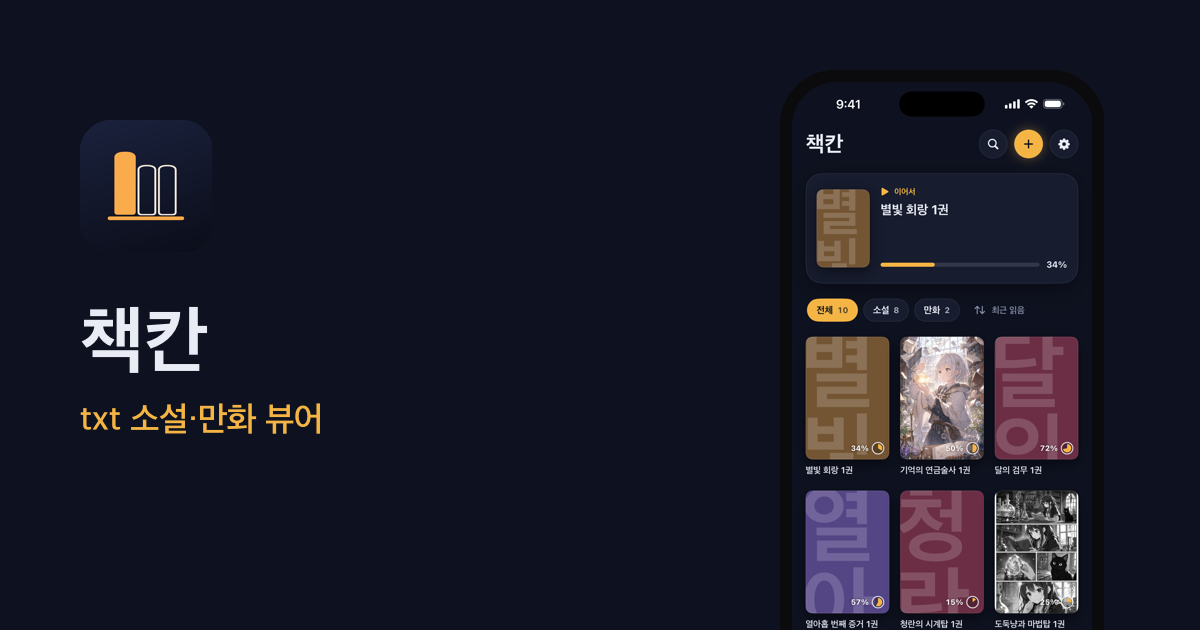
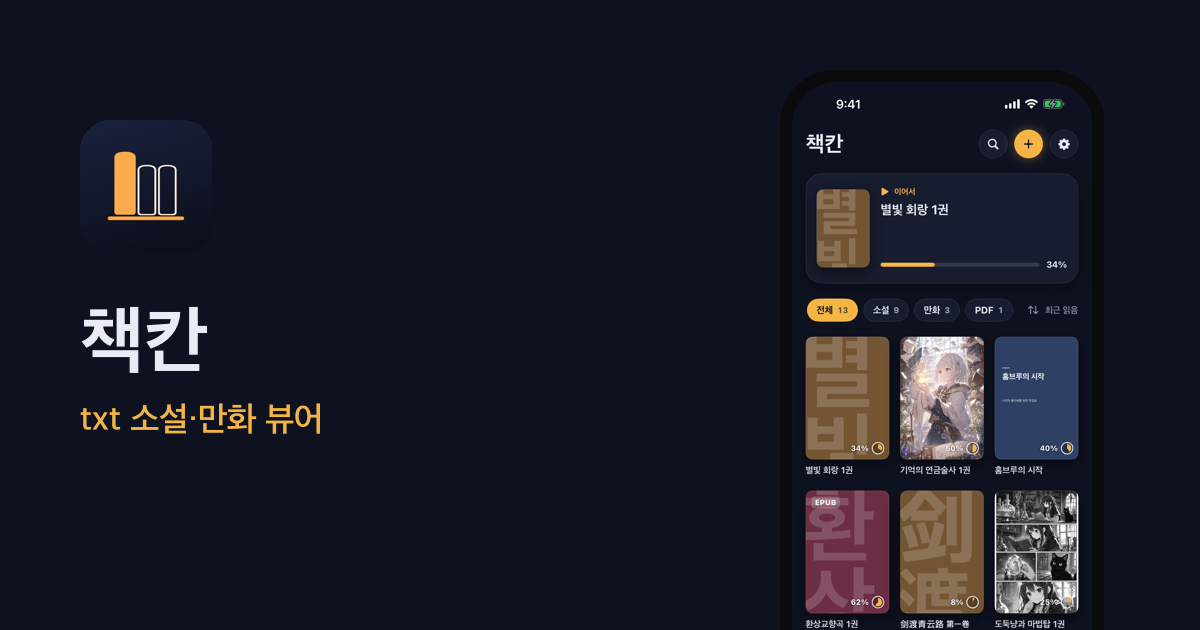
책칸 소개 페이지 1.1: 스토어 스크린샷과 같은 문구·화면, 이어 읽기·번역·형광펜·PDF·음량 버튼 구간, 자주 묻는 질문 4개
- 문구: 사장님 확정본(끊김 없는 독서, 읽던 자리 그대로 / 기능 구간 8개, 설명은 해요체 통일)
- 화면: app/Chaekkan/content/store/v2/raw/iphone 실제 앱 캡처
- 구간 움직임: 번역 전환, 웹툰 스크롤, 형광펜·목차 카드 올라옴, 음량 버튼 줄 강조

Claude-Session: https://claude.ai/code/session_018Qi31Ubd67GE5j59VxB8Cp

diff --git a/docs/chaekkan/index.html b/docs/chaekkan/index.html
@@ -5,7 +5,7 @@
 <meta name="naver-site-verification" content="a9b602e1286b3ce70b0e9754a7afbd7effcd1ab8">
 <meta property="og:type" content="website"><meta property="og:locale" content="ko_KR"><meta property="og:site_name" content="Importants Studio"><meta property="og:title" content="웹소설·전자책 txt 뷰어, TTS 낭독·만화 뷰어 - 책칸"><meta property="og:description" content="웹소설과 전자책 그리고 txt 파일을 깨짐 없이 읽으며 무협소설을 즐겨요. TTS 기능으로 오디오북처럼 듣거나 만화책을 감상할 수 있어요."><meta property="og:url" content="https://apps.importants-studio.com/chaekkan/">
 <meta property="og:image" content="https://apps.importants-studio.com/chaekkan/og.png"><meta property="og:image:width" content="1200"><meta property="og:image:height" content="630"><meta name="twitter:card" content="summary_large_image"><meta name="twitter:title" content="웹소설·전자책 txt 뷰어, TTS 낭독·만화 뷰어 - 책칸"><meta name="twitter:description" content="웹소설과 전자책 그리고 txt 파일을 깨짐 없이 읽으며 무협소설을 즐겨요. TTS 기능으로 오디오북처럼 듣거나 만화책을 감상할 수 있어요."><meta name="twitter:image" content="https://apps.importants-studio.com/chaekkan/og.png">
-<meta name="keywords" content="웹소설, 전자책, TTS, 무협소설, 이북, 오디오북, 만화책, txt 파일, 텍스트 뷰어, 만화 뷰어, 전자책 뷰어, txt 뷰어, 한글 깨짐"><script type="application/ld+json">{"@context": "https://schema.org", "@type": "SoftwareApplication", "name": "책칸 - txt 소설·만화 뷰어", "alternateName": "책칸", "operatingSystem": "iOS", "applicationCategory": "BookApplication", "description": "웹소설과 전자책 그리고 txt 파일을 깨짐 없이 읽으며 무협소설을 즐겨요. TTS 기능으로 오디오북처럼 듣거나 만화책을 감상할 수 있어요.", "keywords": "웹소설, 전자책, TTS, 무협소설, 이북, 오디오북, 만화책, txt 파일, 텍스트 뷰어, 만화 뷰어, 전자책 뷰어, txt 뷰어, 한글 깨짐", "image": "https://apps.importants-studio.com/chaekkan/icon.png", "screenshot": ["https://apps.importants-studio.com/chaekkan/library.webp", "https://apps.importants-studio.com/chaekkan/reader.webp"], "url": "https://apps.importants-studio.com/chaekkan/", "installUrl": "https://apps.apple.com/kr/app/%EC%B1%85%EC%B9%B8-txt-%EC%86%8C%EC%84%A4-%EB%A7%8C%ED%99%94-%EB%B7%B0%EC%96%B4/id6800615398", "publisher": {"@type": "Organization", "name": "Importants Studio", "url": "https://apps.importants-studio.com"}, "offers": {"@type": "Offer", "price": "0", "priceCurrency": "KRW"}}</script><script type="application/ld+json">{"@context": "https://schema.org", "@type": "BreadcrumbList", "itemListElement": [{"@type": "ListItem", "position": 1, "name": "Importants Studio", "item": "https://apps.importants-studio.com/"}, {"@type": "ListItem", "position": 2, "name": "책칸", "item": "https://apps.importants-studio.com/chaekkan/"}]}</script>
+<meta name="keywords" content="웹소설, 전자책, TTS, 무협소설, 이북, 오디오북, 만화책, txt 파일, 텍스트 뷰어, 만화 뷰어, 전자책 뷰어, txt 뷰어, 한글 깨짐"><script type="application/ld+json">{"@context": "https://schema.org", "@type": "SoftwareApplication", "name": "책칸 - txt 소설·만화 뷰어", "alternateName": "책칸", "operatingSystem": "iOS", "applicationCategory": "BookApplication", "description": "웹소설과 전자책 그리고 txt 파일을 깨짐 없이 읽으며 무협소설을 즐겨요. TTS 기능으로 오디오북처럼 듣거나 만화책을 감상할 수 있어요.", "keywords": "웹소설, 전자책, TTS, 무협소설, 이북, 오디오북, 만화책, txt 파일, 텍스트 뷰어, 만화 뷰어, 전자책 뷰어, txt 뷰어, 한글 깨짐", "image": "https://apps.importants-studio.com/chaekkan/icon.png", "screenshot": ["https://apps.importants-studio.com/chaekkan/s1_library.webp", "https://apps.importants-studio.com/chaekkan/s2_reader.webp"], "url": "https://apps.importants-studio.com/chaekkan/", "installUrl": "https://apps.apple.com/kr/app/%EC%B1%85%EC%B9%B8-txt-%EC%86%8C%EC%84%A4-%EB%A7%8C%ED%99%94-%EB%B7%B0%EC%96%B4/id6800615398", "publisher": {"@type": "Organization", "name": "Importants Studio", "url": "https://apps.importants-studio.com"}, "offers": {"@type": "Offer", "price": "0", "priceCurrency": "KRW"}}</script><script type="application/ld+json">{"@context": "https://schema.org", "@type": "BreadcrumbList", "itemListElement": [{"@type": "ListItem", "position": 1, "name": "Importants Studio", "item": "https://apps.importants-studio.com/"}, {"@type": "ListItem", "position": 2, "name": "책칸", "item": "https://apps.importants-studio.com/chaekkan/"}]}</script>
 <meta name="apple-itunes-app" content="app-id=6800615398">
 <script async src="https://www.googletagmanager.com/gtag/js?id=G-YR3RMTS5JD"></script><script>window.dataLayer=window.dataLayer||[];function gtag(){dataLayer.push(arguments)}gtag("js",new Date());gtag("config","G-YR3RMTS5JD");</script><style>*{box-sizing:border-box}html{scroll-behavior:smooth}body{margin:0;-webkit-font-smoothing:antialiased;word-break:keep-all;overflow-x:hidden}
 a{color:inherit;text-decoration:none}img{display:block;max-width:100%}.in{max-width:1200px;margin:0 auto;padding:0 clamp(20px,5vw,56px)}
@@ -40,22 +40,29 @@ body{font-family:"Pretendard Variable",Pretendard,sans-serif;background:#0E1220;
 .bar .wv{display:flex;align-items:center;gap:3px;height:24px}.bar .wv i{width:3px;background:#8C7BFF;border-radius:2px;animation:wv 1s ease-in-out infinite}.bar .wv i:nth-child(2n){animation-delay:.2s}.bar .wv i:nth-child(3n){animation-delay:.4s}@keyframes wv{0%,100%{height:6px}50%{height:22px}}.bar small{color:#8A93AD;font-family:"Pretendard Variable",sans-serif;font-size:13px}
 .feat{padding:clamp(40px,6vw,80px) 0}.feat .in{display:grid;grid-template-columns:1fr 1fr;gap:clamp(40px,6vw,80px);align-items:center}.feat.rev .tx{order:2}.feat .vis{display:flex;justify-content:center}.feat .phone{--w:clamp(220px,min(22vw,38vh),280px);box-shadow:0 40px 80px rgba(0,0,0,.5)}
 .feat h3{font-family:"Nanum Myeongjo",serif;font-size:clamp(28px,3.4vw,42px);line-height:1.3;margin:14px 0 16px;font-weight:800}.feat p{font-size:18px;color:#8A93AD;line-height:1.7;margin:0;max-width:430px}
-.why{padding:clamp(72px,9vw,110px) 0;border-top:1px solid #1B2135}.why .grid{display:grid;grid-template-columns:repeat(3,1fr);gap:clamp(20px,3vw,40px)}.why h4{font-size:20px;font-weight:800;margin:0 0 10px;color:#F5B544}.why p{margin:0;color:#8A93AD;line-height:1.7}
+.why{padding:clamp(72px,9vw,110px) 0;border-top:1px solid #1B2135}.why .grid{display:grid;grid-template-columns:repeat(4,1fr);gap:clamp(20px,3vw,40px)}.why h4{font-size:20px;font-weight:800;margin:0 0 10px;color:#F5B544}.why p{margin:0;color:#8A93AD;line-height:1.7}
 .end{text-align:center;padding:clamp(80px,10vw,120px) 24px;background:#171C2E}.end img{width:92px;height:92px;border-radius:24px;margin:0 auto 24px;box-shadow:0 0 60px rgba(245,181,68,.25)}.end h2{font-family:"Nanum Myeongjo",serif;font-size:clamp(28px,4vw,46px);font-weight:800;margin:0 0 30px}.end small{display:block;margin-top:20px;color:#8A93AD}.end small a{text-decoration:underline}
 .kw span{border-color:#8A93AD}.wt .scr{position:absolute;inset:calc(var(--w)*.034);border-radius:calc(var(--w)*.13);overflow:hidden;background:#000}.wt .scr img{width:100%;height:auto;object-fit:initial;border-radius:0;will-change:transform}
+.feat .vis{position:relative;--w:clamp(220px,min(22vw,38vh),280px)}.pro{display:inline-block;margin-left:10px;padding:3px 11px;border-radius:99px;background:#F5B544;color:#0E1220;font-size:13px;font-weight:800;vertical-align:1px}
+.phone.tr img.b{position:absolute;left:calc(var(--w)*.034);top:calc(var(--w)*.034);width:calc(100% - var(--w)*.068);height:calc(100% - var(--w)*.068);animation:trx 7s ease-in-out infinite}@keyframes trx{0%,22%{opacity:0}34%,88%{opacity:1}100%{opacity:0}}
+.cardup{position:absolute;left:50%;width:calc(var(--w)*1.16);border-radius:calc(var(--w)*.05);border:1px solid rgba(255,255,255,.18);box-shadow:0 26px 60px rgba(0,0,0,.65);transform:translate(-50%,0);animation:cup 6.5s cubic-bezier(.2,.8,.2,1) infinite}@keyframes cup{0%{opacity:0;transform:translate(-50%,46px)}14%,82%{opacity:1;transform:translate(-50%,0)}94%,100%{opacity:0;transform:translate(-50%,46px)}}
+.cardup.pulse{animation:cpl 6s ease-in-out infinite}@keyframes cpl{0%,100%{transform:translate(-50%,0) scale(1)}12%{transform:translate(-50%,0) scale(1.06)}24%{transform:translate(-50%,0) scale(1)}}
+.faq{padding:clamp(56px,7vw,90px) 0;border-top:1px solid #1B2135}.faq .in{max-width:820px}.faq h2{font-family:"Nanum Myeongjo",serif;font-size:clamp(24px,3vw,34px);font-weight:800;margin:0 0 22px}.faq details{border-bottom:1px solid #232A42;padding:18px 0}.faq summary{cursor:pointer;font-weight:700;font-size:18px}.faq p{margin:12px 0 0;color:#8A93AD;line-height:1.75}
 @media(max-width:900px){.hero .in,.page .in,.tts .in,.feat .in,.why .grid{grid-template-columns:1fr}.feat.rev .tx{order:0}.stage{height:420px;gap:12px}.stage .phone{--w:min(42vw,170px)}.stage .phone:last-child{margin-top:50px}.hstats{display:grid;grid-template-columns:repeat(3,minmax(0,1fr))}.paper{height:400px}}</style></head><body>
 <nav class=""><div class="in"><a class="brand" href="https://importants-studio.com/"><img src="/mark.png" alt="" width="24" height="24"><b>Importants Studio</b></a><div class="links"><a href="/lucky-bite/">뽑기 한입</a><a href="/floorlog/">FloorLog</a><a href="/reckoner/">Reckoner</a><a href="/quiz-bite/">퀴즈 한입</a><a href="/maejeum/">맺음</a><a href="/chaekkan/">책칸</a><a href="/officekit/">오피스킷</a><a href="/fairlypaid/">일한만큼 받자</a></div></div></nav>
-<header class="hero"><i class="star" style="left:8%;top:12%;animation-delay:-0s"></i><i class="star" style="left:22%;top:30%;animation-delay:-1.2s"></i><i class="star" style="left:46%;top:8%;animation-delay:-2.4s"></i><i class="star" style="left:64%;top:22%;animation-delay:-0.6s"></i><i class="star" style="left:84%;top:10%;animation-delay:-3.1s"></i><i class="star" style="left:92%;top:40%;animation-delay:-1.8s"></i><i class="star" style="left:30%;top:70%;animation-delay:-2.7s"></i><i class="star" style="left:74%;top:66%;animation-delay:-0.3s"></i><i class="star" style="left:56%;top:86%;animation-delay:-3.6s"></i><i class="star" style="left:12%;top:54%;animation-delay:-1.1s"></i><div class="in"><div class="r"><span class="chip"><img src="icon.png" alt="">책칸</span><h1>끊김 없는 독서<br>읽던 자리 그대로</h1><p>텍스트와 만화를 가장 편안한 환경에서 읽어요</p><a class="btn main storebtn" data-id="6800615398" data-slug="chaekkan" href="https://apps.apple.com/kr/app/%EC%B1%85%EC%B9%B8-txt-%EC%86%8C%EC%84%A4-%EB%A7%8C%ED%99%94-%EB%B7%B0%EC%96%B4/id6800615398">App Store에서 받기</a>
-<div class="hstats"><div><b>글자 잘림 없이</b><span>페이지와 글자 크기 변화 대응</span></div><div><b>읽던 곳 기억</b><span>아이폰과 아이패드 사이 이동</span></div><div><b>txt·만화·PDF</b><span>여러 형식의 파일을 한 곳에서</span></div></div></div>
-<div class="stage r d1"><i class="glow"></i><div class="phone " style=""><img src="library.webp" alt="책장" loading="lazy"></div><div class="phone " style=""><img src="reader.webp" alt="텍스트 리더" loading="lazy"></div></div></div></header>
-<section class="page"><div class="in"><div class="r"><span class="k">가독성 높은 화면</span><h2>글자 겹침 없이<br>깔끔한 화면</h2><p class="d">글자 크기와 줄 간격을 바꿔도 글자가 깨지지 않아요. 인코딩을 자동으로 판별해 한글도 선명해요</p>
+<header class="hero"><i class="star" style="left:8%;top:12%;animation-delay:-0s"></i><i class="star" style="left:22%;top:30%;animation-delay:-1.2s"></i><i class="star" style="left:46%;top:8%;animation-delay:-2.4s"></i><i class="star" style="left:64%;top:22%;animation-delay:-0.6s"></i><i class="star" style="left:84%;top:10%;animation-delay:-3.1s"></i><i class="star" style="left:92%;top:40%;animation-delay:-1.8s"></i><i class="star" style="left:30%;top:70%;animation-delay:-2.7s"></i><i class="star" style="left:74%;top:66%;animation-delay:-0.3s"></i><i class="star" style="left:56%;top:86%;animation-delay:-3.6s"></i><i class="star" style="left:12%;top:54%;animation-delay:-1.1s"></i><div class="in"><div class="r"><span class="chip"><img src="icon.png" alt="">책칸</span><h1>끊김 없는 독서,<br>읽던 자리 그대로</h1><p>TXT, EPUB, 만화, PDF. 텍스트를 가장 편안하게 읽는 나만의 서재</p><a class="btn main storebtn" data-id="6800615398" data-slug="chaekkan" href="https://apps.apple.com/kr/app/%EC%B1%85%EC%B9%B8-txt-%EC%86%8C%EC%84%A4-%EB%A7%8C%ED%99%94-%EB%B7%B0%EC%96%B4/id6800615398">App Store에서 받기</a>
+<div class="hstats"><div><b>한글 깨짐·글자 잘림 없이</b><span>대용량 파일 1초 로딩</span></div><div><b>마지막 위치 기억</b><span>낭독(TTS) · 외국어 번역 지원</span></div><div><b>만화 이어 보기</b><span>형광펜 · 음량 버튼 페이지 넘김</span></div></div></div>
+<div class="stage r d1"><i class="glow"></i><div class="phone " style=""><img src="s1_library.webp" alt="책장" loading="lazy"></div><div class="phone " style=""><img src="s2_reader.webp" alt="텍스트 리더" loading="lazy"></div></div></div></header>
+<section class="page"><div class="in"><div class="r"><span class="k">한글 깨짐, 글자 잘림 없이</span><h2>내 눈에 꼭 맞는<br>편안한 화면</h2><p class="d">글꼴, 크기, 줄 간격은 물론 야간 모드까지 취향껏 설정해요. 빈 줄은 접어주고 수십 메가 대용량 텍스트도 1초 안에 열려요.</p>
 <div class="ctl">가<input type="range" id="fs" min="15" max="24" value="18" aria-label="글자 크기"><b id="fv">18</b>가</div></div>
 <div class="paper r d1" id="pp"><div class="txt" id="tx"><p>낯익은 목소리에 은하는 뒤돌아봤다. 학생회장인 현우였다.</p><p>현우는 회랑 반대편에 서 있었다. 그의 손에는 책 한 권이 들려 있었다.</p><p>“그냥, 생각 좀 하려고.”</p><p>현우는 다가오며 창문 곁에 섰다. 두 사람 사이로 조용한 밤공기가 스며들었다.</p><p>이 학교에서 가장 조용한 곳, 아무도 찾지 않는 별빛 회랑.</p><p>이곳에서만큼은 고민도, 두려움도 모두 사라지는 것 같았다.</p></div><div class="ft"><span>별빛 회랑 1권</span><span id="pg">34%</span></div></div></div></section>
+<section class="feat rev"><div class="in"><div class="tx r"><span class="k">앱을 껐다 켜도</span><h3>마지막에 읽던<br>자리 그대로</h3><p>책갈피가 없어도 찰떡같이 기억해요.</p></div><div class="vis r d1"><div class="phone " style=""><img src="s1_library.webp" alt="책장의 이어서 카드" loading="lazy"></div></div></div></section><section class="feat "><div class="in"><div class="tx r"><span class="k">막히는 외국어 원서 읽기</span><span class="pro">Pro</span><h3>버튼 한 번에<br>한국어로 번역</h3><p>외국어 소설을 한국어로 바로 번역해 줘요. 원문과 번역을 함께 보며 읽기 좋아요.</p></div><div class="vis r d1"><div class="phone tr"><img src="s3_original.webp" alt="중국어 원문" loading="lazy"><img class="b" src="s3_translate.webp" alt="한국어 번역과 원문" loading="lazy"></div></div></div></section>
 <section class="tts"><div class="in"><div class="read r" id="rd"><span>낯익은 목소리에 은하는 뒤돌아봤다. 학생회장인 현우였다.</span> <span>현우는 회랑 반대편에 서 있었다. 그의 손에는 책 한 권이 들려 있었다.</span> <span>“그냥, 생각 좀 하려고.”</span> <span>현우는 다가오며 창문 곁에 섰다. 두 사람 사이로 조용한 밤공기가 스며들었다.</span> <span>이 학교에서 가장 조용한 곳, 아무도 찾지 않는 별빛 회랑.</span> <span>이곳에서만큼은 고민도, 두려움도 모두 사라지는 것 같았다.</span> <div class="bar"><span class="pl"><i></i><i></i></span><span class="wv"><i></i><i></i><i></i><i></i><i></i><i></i><i></i><i></i><i></i><i></i><i></i><i></i><i></i><i></i></span></div></div>
-<div class="r d1"><span class="k">눈이 쉬는 시간</span><h2>귀로 듣는<br>생생한 이야기</h2><p class="d">기기 음성으로 문장을 읽어줘요. 화면을 꺼도 다른 앱을 쓰는 중에도 낭독이 계속돼요</p></div></div></section>
-<section class="feat"><div class="in"><div class="tx r"><span class="k">어디서든 이어 읽기</span><h3>읽던 곳부터<br>바로 시작해요</h3><p>기기를 바꿔도 읽던 위치를 기억해요. iCloud로 아이폰과 아이패드를 오가며 읽을 수 있어요</p></div><div class="vis r d1"><div class="phone " style=""><img src="library.webp" alt="어디서든 이어 읽기" loading="lazy"></div></div></div></section><section class="feat rev wt"><div class="in"><div class="tx r"><span class="k">만화도 자유롭게</span><h3>웹툰처럼<br>부드러운 스크롤</h3><p>세로 스크롤부터 페이지 넘기기까지 지원해요. 다양한 만화 파일 형식을 지원해요</p></div><div class="vis r d1"><div class="phone"><div class="scr"><img src="webtoon.webp" alt="세로 스크롤 만화" id="wti"></div></div></div></div></section>
-<section class="why"><div class="in grid"><div class="r d0"><h4>깔끔한 문단 정리</h4><p>빈 줄을 접거나 문단을 이어 붙여 읽기 편해요</p></div><div class="r d1"><h4>빠른 파일 열기</h4><p>수십 메가 파일도 첫 페이지까지 1초 안에 열려요</p></div><div class="r d2"><h4>맞춤형 독서 환경</h4><p>글꼴과 종이 질감, 야간 모드로 취향껏 설정해요</p></div></div></section>
-<section class="end r"><img src="icon.png" alt=""><h2>지금 바로 나만의 책장을 만들어봐요</h2><a class="btn main storebtn" data-id="6800615398" data-slug="chaekkan" href="https://apps.apple.com/kr/app/%EC%B1%85%EC%B9%B8-txt-%EC%86%8C%EC%84%A4-%EB%A7%8C%ED%99%94-%EB%B7%B0%EC%96%B4/id6800615398">App Store에서 받기</a><small><a href="https://importants-studio.com/privacy/chaekkan/">개인정보 처리방침</a></small></section><div class="in kw"><span>웹소설</span><span>전자책</span><span>TTS</span><span>무협소설</span><span>이북</span><span>오디오북</span><span>만화책</span><span>txt 파일</span><span>텍스트 뷰어</span><span>만화 뷰어</span><span>전자책 뷰어</span><span>txt 뷰어</span><span>한글 깨짐</span></div>
+<div class="r d1"><span class="k">눈이 피곤하고 쉬고 싶을 땐</span><h2>화면을 끄고<br>소설을 들어요</h2><p class="d">눈을 감고 싶을 땐 기기가 읽어주는 소설을 들으며 잠들어 보세요.</p></div></div></section>
+<section class="feat rev wt"><div class="in"><div class="tx r"><span class="k">웹툰처럼 부드럽게, 흐름이 끊기지 않게</span><h3>다음 화가 바로<br>아래에 이어져요</h3><p>7Z, ZIP 등 다양한 압축 만화를 지원해요. 한 화가 끝나면 밖으로 나갈 필요 없이 다음 화로 쾌적하게 넘어가요.</p></div><div class="vis r d1"><div class="phone"><div class="scr"><img src="webtoon.webp" alt="세로 스크롤 만화" id="wti"></div></div></div></div></section><section class="feat "><div class="in"><div class="tx r"><span class="k">간직하고 싶은 인생 문장</span><h3>길게 눌러 형광펜 칠하고<br>메모를 남겨요</h3><p>인상 깊은 구절에 색을 칠하고 메모를 남겨요.</p></div><div class="vis r d1"><div class="phone " style=""><img src="s6_mark.webp" alt="형광펜 칠한 문단" loading="lazy"></div><img class="cardup" style="top:56%" src="card-mark.webp" alt="형광펜 모아 보기" loading="lazy"></div></div></section><section class="feat rev "><div class="in"><div class="tx r"><span class="k">긴 PDF에서 찾을 때</span><h3>목차와 검색으로<br>바로 찾아가요</h3><p>가로 두 쪽, 야간 모드, 암호 PDF 열기 지원</p></div><div class="vis r d1"><div class="phone " style=""><img src="s7_pdf.webp" alt="PDF 리더" loading="lazy"></div><img class="cardup" style="top:50%" src="card-toc.webp" alt="PDF 목차" loading="lazy"></div></div></section><section class="feat "><div class="in"><div class="tx r"><span class="k">이불 속에서 한 손으로 볼 땐</span><h3>음량 버튼으로<br>편하게 쪽을 넘겨요</h3><p>이불 속에서는 음량 버튼으로 편하게 페이지를 넘길 수 있어요.</p></div><div class="vis r d1"><div class="phone " style=""><img src="s8_settings.webp" alt="설정" loading="lazy"></div><img class="cardup pulse" style="top:35.5%" src="card-vol.webp" alt="음량 버튼으로 쪽 넘기기 켜짐" loading="lazy"></div></div></section>
+<section class="why"><div class="in grid"><div class="r d0"><h4>음량 버튼 페이지 넘기기</h4><p>설정에서 기능을 켜면 음량 버튼으로 편리하게 쪽을 넘겨요.</p></div><div class="r d1"><h4>파일 앱 연동 기능</h4><p>파일 앱의 책칸 폴더에 파일을 넣으면 앱에 바로 나타나요.</p></div><div class="r d2"><h4>안전한 앱 잠금</h4><p>설정에서 잠금을 켜면 생체 인식이나 암호로 앱을 보호해요.</p></div><div class="r d3"><h4>깔끔한 줄바꿈 정리</h4><p>끊어진 문장을 하나의 문단으로 이어 붙여 읽기 좋게 보여줘요.</p></div></div></section>
+<section class="faq"><div class="in"><h2>자주 묻는 질문</h2><details><summary>아이폰에서 EPUB 파일 어떻게 여나요?</summary><p>책칸에 넣기만 하면 목차와 함께 텍스트 중심으로 열려요. 글꼴 설정이나 낭독 기능도 똑같이 쓸 수 있어요.</p></details><details><summary>7Z, ZIP 압축 만화도 볼 수 있나요?</summary><p>네, 책장에 넣고 터치만 해요. 귀찮게 압축을 풀 필요 없이 처음 열 때 한 번 풀어 두고 다음부터 바로 열려요.</p></details><details><summary>외국어 소설 번역은 어떻게 하나요?</summary><p>뷰어 상단의 번역 버튼을 누르면 한국어로 바뀌어요. 원문과 번역을 함께 보며 읽기 좋아요.</p></details><details><summary>암호 걸린 PDF는 어떻게 여나요?</summary><p>파일을 열면 암호 입력창이 나타나요. 올바른 암호를 입력하면 파일이 열려요.</p></details></div></section>
+<section class="end r"><img src="icon.png" alt=""><h2>지금 바로 나만의 책장을 만들어보세요</h2><a class="btn main storebtn" data-id="6800615398" data-slug="chaekkan" href="https://apps.apple.com/kr/app/%EC%B1%85%EC%B9%B8-txt-%EC%86%8C%EC%84%A4-%EB%A7%8C%ED%99%94-%EB%B7%B0%EC%96%B4/id6800615398">App Store에서 받기</a><small><a href="https://importants-studio.com/privacy/chaekkan/">개인정보 처리방침</a></small></section><div class="in kw"><span>웹소설</span><span>전자책</span><span>TTS</span><span>무협소설</span><span>이북</span><span>오디오북</span><span>만화책</span><span>txt 파일</span><span>텍스트 뷰어</span><span>만화 뷰어</span><span>전자책 뷰어</span><span>txt 뷰어</span><span>한글 깨짐</span></div>
 <footer><div class="in"><span>© 2026 <a href="https://importants-studio.com/">Importants Studio</a></span><div class="links"><a href="/">다른 앱 보기</a><a href="https://importants-studio.com/contact/">문의하기</a></div><details class="fam"><summary>패밀리 사이트</summary><ul><li><a href="https://importants-studio.com/">홈페이지</a></li><li><a href="https://apps.importants-studio.com/" aria-current="page">앱 소개</a></li><li><a href="https://importants-studio.com/tools/">웹 도구</a></li><li><a href="https://importants-studio.com/blog/">블로그</a></li><li><a href="https://importants-studio.com/blogs/">정보 아카이브</a></li></ul></details></div></footer>
 <script>document.addEventListener('DOMContentLoaded',()=>{const cu=new IntersectionObserver(es=>es.forEach(x=>{if(!x.isIntersecting)return;cu.unobserve(x.target);const el=x.target,to=+el.dataset.to,t0=performance.now(),f=t=>{const p=Math.min(1,(t-t0)/1300),v=Math.round(to*(1-Math.pow(1-p,3)));el.textContent=v.toLocaleString()+(el.dataset.sf||'');if(p<1)requestAnimationFrame(f)};requestAnimationFrame(f)}),{threshold:.5});if(!matchMedia('(prefers-reduced-motion: reduce)').matches)document.querySelectorAll('.hstats b,.stats b').forEach(b=>{const t=b.textContent.trim(),mm=t.match(/^([0-9][0-9,]*)(.*)$/);if(mm){b.dataset.to=mm[1].replace(/,/g,'');b.dataset.sf=mm[2];b.textContent='0'+mm[2];cu.observe(b)}});const o=new IntersectionObserver(es=>es.forEach(x=>{if(x.isIntersecting){x.target.classList.add('on');o.unobserve(x.target)}}),{threshold:.12});document.querySelectorAll('.r').forEach(n=>o.observe(n));const fs=document.getElementById('fs'),tx=document.getElementById('tx'),pp=document.getElementById('pp'),fv=document.getElementById('fv');
 const ps=[...tx.children];const fit=()=>{ps.forEach(x=>x.style.display='');const H=tx.clientHeight;let n=0;ps.forEach(x=>{if(x.offsetTop+x.offsetHeight>H)x.style.display='none';else n++});document.getElementById('pg').textContent=n+' / '+ps.length+' 문단';};const setF=v=>{tx.style.fontSize=v+'px';fv.textContent=v;fit();pp.classList.remove('flip');void pp.offsetWidth;pp.classList.add('flip')};addEventListener('resize',fit);fs.oninput=()=>setF(fs.value);setF(18);

diff --git a/docs/index.html b/docs/index.html
@@ -35,8 +35,8 @@ body{font-family:"Pretendard Variable",Pretendard,sans-serif;background:#FAFAF8;
 <div class="ph"><div class="phone " style=""><img src="/floorlog/record.webp" alt="FloorLog" loading="lazy"></div><div class="phone " style=""><img src="/floorlog/pattern.webp" alt="FloorLog" loading="lazy"></div></div></a><a class="card c2 k-reckoner r" href="/reckoner/" style="--bg:#F1EEE7;--fg:#141414;--ac:#FF5B14"><div class="tx"><span class="nm"><img src="/reckoner/icon.png" alt="">Reckoner</span><h2>흐름을 끊지 않는<br>정확한 점수 기록</h2><span class="go">자세히 보기 →</span></div>
 <div class="ph"><div class="phone " style=""><img src="/reckoner/picker.webp" alt="Reckoner" loading="lazy"></div><div class="phone " style=""><img src="/reckoner/live.webp" alt="Reckoner" loading="lazy"></div></div></a><a class="card c3 k-quiz-bite r" href="/quiz-bite/" style="--bg:#EAF0FF;--fg:#1B2440;--ac:#4F7CFF"><div class="tx"><span class="nm"><img src="/quiz-bite/icon.png" alt="">퀴즈 한입</span><h2>매일 채워지는 상식<br>한입 크기 퀴즈</h2><span class="go">자세히 보기 →</span></div>
 <div class="ph"><div class="phone " style=""><img src="/quiz-bite/home.webp" alt="퀴즈 한입" loading="lazy"></div><div class="phone " style=""><img src="/quiz-bite/map.webp" alt="퀴즈 한입" loading="lazy"></div></div></a><a class="card c4 k-maejeum r" href="/maejeum/" style="--bg:#EFECE5;--fg:#2B2B2D;--ac:#4A5C52"><div class="tx"><span class="nm"><img src="/maejeum/icon.png" alt="">맺음</span><h2 style="font-family:'Nanum Myeongjo',serif">장례 절차를<br>차근차근 준비해요</h2><span class="go">자세히 보기 →</span></div>
-<div class="ph"><div class="phone " style=""><img src="/maejeum/funeral.webp" alt="맺음" loading="lazy"></div><div class="phone " style=""><img src="/maejeum/obit_app.webp" alt="맺음" loading="lazy"></div></div></a><a class="card c5 k-chaekkan r" href="/chaekkan/" style="--bg:#0E1220;--fg:#E9ECF5;--ac:#F5B544"><div class="tx"><span class="nm"><img src="/chaekkan/icon.png" alt="">책칸</span><h2 style="font-family:'Nanum Myeongjo',serif">끊김 없는 독서<br>읽던 자리 그대로</h2><span class="go">자세히 보기 →</span></div>
-<div class="ph"><div class="phone " style=""><img src="/chaekkan/library.webp" alt="책칸" loading="lazy"></div><div class="phone " style=""><img src="/chaekkan/reader.webp" alt="책칸" loading="lazy"></div></div></a><a class="card c6 k-officekit r" href="/officekit/" style="--bg:#0F1424;--fg:#FFFFFF;--ac:#7EA0FF"><div class="tx"><span class="nm"><img src="/officekit/icon.png" alt="">오피스킷</span><h2>복잡한 서류 작업<br>이제 앱 하나로 끝내요</h2><span class="go">자세히 보기 →</span></div>
+<div class="ph"><div class="phone " style=""><img src="/maejeum/funeral.webp" alt="맺음" loading="lazy"></div><div class="phone " style=""><img src="/maejeum/obit_app.webp" alt="맺음" loading="lazy"></div></div></a><a class="card c5 k-chaekkan r" href="/chaekkan/" style="--bg:#0E1220;--fg:#E9ECF5;--ac:#F5B544"><div class="tx"><span class="nm"><img src="/chaekkan/icon.png" alt="">책칸</span><h2 style="font-family:'Nanum Myeongjo',serif">끊김 없는 독서,<br>읽던 자리 그대로</h2><span class="go">자세히 보기 →</span></div>
+<div class="ph"><div class="phone " style=""><img src="/chaekkan/s1_library.webp" alt="책칸" loading="lazy"></div><div class="phone " style=""><img src="/chaekkan/s2_reader.webp" alt="책칸" loading="lazy"></div></div></a><a class="card c6 k-officekit r" href="/officekit/" style="--bg:#0F1424;--fg:#FFFFFF;--ac:#7EA0FF"><div class="tx"><span class="nm"><img src="/officekit/icon.png" alt="">오피스킷</span><h2>복잡한 서류 작업<br>이제 앱 하나로 끝내요</h2><span class="go">자세히 보기 →</span></div>
 <div class="ph"><div class="phone " style=""><img src="/officekit/library.webp" alt="오피스킷" loading="lazy"></div><div class="phone " style=""><img src="/officekit/home.webp" alt="오피스킷" loading="lazy"></div></div></a><a class="card c7 cw k-fairlypaid r" href="/fairlypaid/" style="--bg:#ECF5CC;--fg:#101114;--ac:#3F5A0A"><div class="tx"><span class="nm"><img src="/fairlypaid/icon.png" alt="">일한만큼 받자</span><h2>일한 만큼<br>당당하게 받아요</h2><span class="go">자세히 보기 →</span></div>
 <div class="ph"><div class="phone " style=""><img src="/fairlypaid/home.webp" alt="일한만큼 받자" loading="lazy"></div><div class="phone " style=""><img src="/fairlypaid/clock.webp" alt="일한만큼 받자" loading="lazy"></div></div></a></div>
 <footer><div class="in"><span>© 2026 <a href="https://importants-studio.com/">Importants Studio</a></span><div class="links"><a href="/">다른 앱 보기</a><a href="https://importants-studio.com/contact/">문의하기</a></div><details class="fam"><summary>패밀리 사이트</summary><ul><li><a href="https://importants-studio.com/">홈페이지</a></li><li><a href="https://apps.importants-studio.com/" aria-current="page">앱 소개</a></li><li><a href="https://importants-studio.com/tools/">웹 도구</a></li><li><a href="https://importants-studio.com/blog/">블로그</a></li><li><a href="https://importants-studio.com/blogs/">정보 아카이브</a></li></ul></details></div></footer>

diff --git a/tools/build.py b/tools/build.py
@@ -451,27 +451,47 @@ body{font-family:"Pretendard Variable",Pretendard,sans-serif;background:#0E1220;
 .bar .wv{display:flex;align-items:center;gap:3px;height:24px}.bar .wv i{width:3px;background:#8C7BFF;border-radius:2px;animation:wv 1s ease-in-out infinite}.bar .wv i:nth-child(2n){animation-delay:.2s}.bar .wv i:nth-child(3n){animation-delay:.4s}@keyframes wv{0%,100%{height:6px}50%{height:22px}}.bar small{color:#8A93AD;font-family:"Pretendard Variable",sans-serif;font-size:13px}
 .feat{padding:clamp(40px,6vw,80px) 0}.feat .in{display:grid;grid-template-columns:1fr 1fr;gap:clamp(40px,6vw,80px);align-items:center}.feat.rev .tx{order:2}.feat .vis{display:flex;justify-content:center}.feat .phone{--w:clamp(220px,min(22vw,38vh),280px);box-shadow:0 40px 80px rgba(0,0,0,.5)}
 .feat h3{font-family:"Nanum Myeongjo",serif;font-size:clamp(28px,3.4vw,42px);line-height:1.3;margin:14px 0 16px;font-weight:800}.feat p{font-size:18px;color:#8A93AD;line-height:1.7;margin:0;max-width:430px}
-.why{padding:clamp(72px,9vw,110px) 0;border-top:1px solid #1B2135}.why .grid{display:grid;grid-template-columns:repeat(3,1fr);gap:clamp(20px,3vw,40px)}.why h4{font-size:20px;font-weight:800;margin:0 0 10px;color:#F5B544}.why p{margin:0;color:#8A93AD;line-height:1.7}
+.why{padding:clamp(72px,9vw,110px) 0;border-top:1px solid #1B2135}.why .grid{display:grid;grid-template-columns:repeat(4,1fr);gap:clamp(20px,3vw,40px)}.why h4{font-size:20px;font-weight:800;margin:0 0 10px;color:#F5B544}.why p{margin:0;color:#8A93AD;line-height:1.7}
 .end{text-align:center;padding:clamp(80px,10vw,120px) 24px;background:#171C2E}.end img{width:92px;height:92px;border-radius:24px;margin:0 auto 24px;box-shadow:0 0 60px rgba(245,181,68,.25)}.end h2{font-family:"Nanum Myeongjo",serif;font-size:clamp(28px,4vw,46px);font-weight:800;margin:0 0 30px}.end small{display:block;margin-top:20px;color:#8A93AD}.end small a{text-decoration:underline}
 .kw span{border-color:#8A93AD}.wt .scr{position:absolute;inset:calc(var(--w)*.034);border-radius:calc(var(--w)*.13);overflow:hidden;background:#000}.wt .scr img{width:100%;height:auto;object-fit:initial;border-radius:0;will-change:transform}
+.feat .vis{position:relative;--w:clamp(220px,min(22vw,38vh),280px)}.pro{display:inline-block;margin-left:10px;padding:3px 11px;border-radius:99px;background:#F5B544;color:#0E1220;font-size:13px;font-weight:800;vertical-align:1px}
+.phone.tr img.b{position:absolute;left:calc(var(--w)*.034);top:calc(var(--w)*.034);width:calc(100% - var(--w)*.068);height:calc(100% - var(--w)*.068);animation:trx 7s ease-in-out infinite}@keyframes trx{0%,22%{opacity:0}34%,88%{opacity:1}100%{opacity:0}}
+.cardup{position:absolute;left:50%;width:calc(var(--w)*1.16);border-radius:calc(var(--w)*.05);border:1px solid rgba(255,255,255,.18);box-shadow:0 26px 60px rgba(0,0,0,.65);transform:translate(-50%,0);animation:cup 6.5s cubic-bezier(.2,.8,.2,1) infinite}@keyframes cup{0%{opacity:0;transform:translate(-50%,46px)}14%,82%{opacity:1;transform:translate(-50%,0)}94%,100%{opacity:0;transform:translate(-50%,46px)}}
+.cardup.pulse{animation:cpl 6s ease-in-out infinite}@keyframes cpl{0%,100%{transform:translate(-50%,0) scale(1)}12%{transform:translate(-50%,0) scale(1.06)}24%{transform:translate(-50%,0) scale(1)}}
+.faq{padding:clamp(56px,7vw,90px) 0;border-top:1px solid #1B2135}.faq .in{max-width:820px}.faq h2{font-family:"Nanum Myeongjo",serif;font-size:clamp(24px,3vw,34px);font-weight:800;margin:0 0 22px}.faq details{border-bottom:1px solid #232A42;padding:18px 0}.faq summary{cursor:pointer;font-weight:700;font-size:18px}.faq p{margin:12px 0 0;color:#8A93AD;line-height:1.75}
 @media(max-width:900px){.hero .in,.page .in,.tts .in,.feat .in,.why .grid{grid-template-columns:1fr}.feat.rev .tx{order:0}.stage{height:420px;gap:12px}.stage .phone{--w:min(42vw,170px)}.stage .phone:last-child{margin-top:50px}.hstats{display:grid;grid-template-columns:repeat(3,minmax(0,1fr))}.paper{height:400px}}"""
 stars = "".join(f'<i class="star" style="left:{x}%;top:{y}%;animation-delay:-{d}s"></i>' for x, y, d in [(8,12,0),(22,30,1.2),(46,8,2.4),(64,22,.6),(84,10,3.1),(92,40,1.8),(30,70,2.7),(74,66,.3),(56,86,3.6),(12,54,1.1)])
 sents = "".join(f"<span>{e(t)}</span> " for t in SAMPLE)
 paras = "".join(f"<p>{e(t)}</p>" for t in SAMPLE)
-feats = "".join(f"""<section class="feat{' rev' if i % 2 else ''}"><div class="in"><div class="tx r"><span class="k">{e(sc[k]['kicker'])}</span><h3>{br(sc[k]['title'])}</h3><p>{e(sc[k]['body'])}</p></div><div class="vis r d1">{phone(S[k], sc[k]['kicker'])}</div></div></section>""" for i, k in enumerate(["library"]))
-cm = sc["comic"]
-feats += f"""<section class="feat rev wt"><div class="in"><div class="tx r"><span class="k">{e(cm['kicker'])}</span><h3>{br(cm['title'])}</h3><p>{e(cm['body'])}</p></div><div class="vis r d1"><div class="phone"><div class="scr"><img src="{WT}" alt="세로 스크롤 만화" id="wti"></div></div></div></div></section>"""
-rd, ts = sc["reader"], sc["tts"]
+# 1.1: 스토어 스크린샷(app/Chaekkan/content/store/v2)과 같은 문장·같은 화면. 구간마다 움직임 하나(번역 전환·만화 스크롤·카드 올라옴)
+def ck_crop(name, box, dst, w=900):
+    im = Image.open(os.path.join(a["raw_dir"], name + ".png")).convert("RGB").crop(box); im = im.resize((w, int(im.height * w / im.width)))
+    im.save(f"{OUT}/chaekkan/{dst}.webp", "WEBP", quality=86); return f"{dst}.webp"
+CK_MARK = ck_crop("s6_mark_tab", (40, 1380, 1280, 1990), "card-mark"); CK_TOC = ck_crop("s7_pdf_toc", (40, 1385, 1280, 1985), "card-toc"); CK_VOL = ck_crop("s8_settings", (56, 1040, 1264, 1232), "card-vol")
+def ck_tx(x): return f"""<div class="tx r"><span class="k">{e(x['kicker'])}</span>{'<span class="pro">Pro</span>' if x.get('pro') else ''}<h3>{br(x['title'])}</h3>{'<p>' + e(x['body']) + '</p>' if x.get('body') else ''}</div>"""
+def ck_feat(k, vis, rev, cls=""): return f"""<section class="feat{' rev' if rev else ''} {cls}"><div class="in">{ck_tx(SCN[k])}<div class="vis r d1">{vis}</div></div></section>"""
+SCN = {x["kicker"]: x for x in m["scenes"]}; SCN.update(sc)          # 책장 화면은 첫 화면과 이어 읽기 구간에서 같이 써서 구간은 따로 찾음
+RES = m["scenes"][1]
+feats_a = f"""<section class="feat rev"><div class="in">{ck_tx(RES)}<div class="vis r d1">{phone(S["s1_library"], "책장의 이어서 카드")}</div></div></section>"""
+feats_a += ck_feat("s3_translate", f"""<div class="phone tr"><img src="{S['s3_original']}" alt="중국어 원문" loading="lazy"><img class="b" src="{S['s3_translate']}" alt="한국어 번역과 원문" loading="lazy"></div>""", False)
+feats = ck_feat("s5_webtoon", f"""<div class="phone"><div class="scr"><img src="{WT}" alt="세로 스크롤 만화" id="wti"></div></div>""", True, "wt")
+feats += ck_feat("s6_mark", phone(S["s6_mark"], "형광펜 칠한 문단") + f'<img class="cardup" style="top:56%" src="{CK_MARK}" alt="형광펜 모아 보기" loading="lazy">', False)
+feats += ck_feat("s7_pdf", phone(S["s7_pdf"], "PDF 리더") + f'<img class="cardup" style="top:50%" src="{CK_TOC}" alt="PDF 목차" loading="lazy">', True)
+feats += ck_feat("s8_settings", phone(S["s8_settings"], "설정") + f'<img class="cardup pulse" style="top:35.5%" src="{CK_VOL}" alt="음량 버튼으로 쪽 넘기기 켜짐" loading="lazy">', False)
+faq = "".join(f"<details><summary>{e(q['q'])}</summary><p>{e(q['a'])}</p></details>" for q in m["faq"])
+rd, ts = sc["s2_reader"], sc["s4_tts"]
 body = f"""<header class="hero">{stars}<div class="in"><div class="r"><span class="chip"><img src="icon.png" alt="">{e(a['ko_name'])}</span><h1>{br(m['hero_title'])}</h1><p>{e(m['hero_sub'])}</p>{store_btn(a)}
 <div class="hstats">{''.join(f'<div><b>{e(n)}</b><span>{e(l)}</span></div>' for n,l in m['stats'])}</div></div>
-<div class="stage r d1"><i class="glow"></i>{phone(S['library'], '책장')}{phone(S['reader'], '텍스트 리더')}</div></div></header>
+<div class="stage r d1"><i class="glow"></i>{phone(S['s1_library'], '책장')}{phone(S['s2_reader'], '텍스트 리더')}</div></div></header>
 <section class="page"><div class="in"><div class="r"><span class="k">{e(rd['kicker'])}</span><h2>{br(rd['title'])}</h2><p class="d">{e(rd['body'])}</p>
 <div class="ctl">가<input type="range" id="fs" min="15" max="24" value="18" aria-label="글자 크기"><b id="fv">18</b>가</div></div>
 <div class="paper r d1" id="pp"><div class="txt" id="tx">{paras}</div><div class="ft"><span>별빛 회랑 1권</span><span id="pg">34%</span></div></div></div></section>
+{feats_a}
 <section class="tts"><div class="in"><div class="read r" id="rd">{sents}<div class="bar"><span class="pl"><i></i><i></i></span><span class="wv">{'<i></i>' * 14}</span></div></div>
 <div class="r d1"><span class="k">{e(ts['kicker'])}</span><h2>{br(ts['title'])}</h2><p class="d">{e(ts['body'])}</p></div></div></section>
 {feats}
 <section class="why"><div class="in grid">{''.join(f'<div class="r d{i}"><h4>{e(w["title"])}</h4><p>{e(w["body"])}</p></div>' for i,w in enumerate(m['why']))}</div></section>
+<section class="faq"><div class="in"><h2>자주 묻는 질문</h2>{faq}</div></section>
 <section class="end r"><img src="icon.png" alt=""><h2>{e(m['cta'])}</h2>{store_btn(a)}<small><a href="{e(a['privacy'])}">{e(C['LINK_PRIVACY'])}</a></small></section>"""
 js = """const fs=document.getElementById('fs'),tx=document.getElementById('tx'),pp=document.getElementById('pp'),fv=document.getElementById('fv');
 const ps=[...tx.children];const fit=()=>{ps.forEach(x=>x.style.display='');const H=tx.clientHeight;let n=0;ps.forEach(x=>{if(x.offsetTop+x.offsetHeight>H)x.style.display='none';else n++});document.getElementById('pg').textContent=n+' / '+ps.length+' 문단';};const setF=v=>{tx.style.fontSize=v+'px';fv.textContent=v;fit();pp.classList.remove('flip');void pp.offsetWidth;pp.classList.add('flip')};addEventListener('resize',fit);fs.oninput=()=>setF(fs.value);setF(18);
